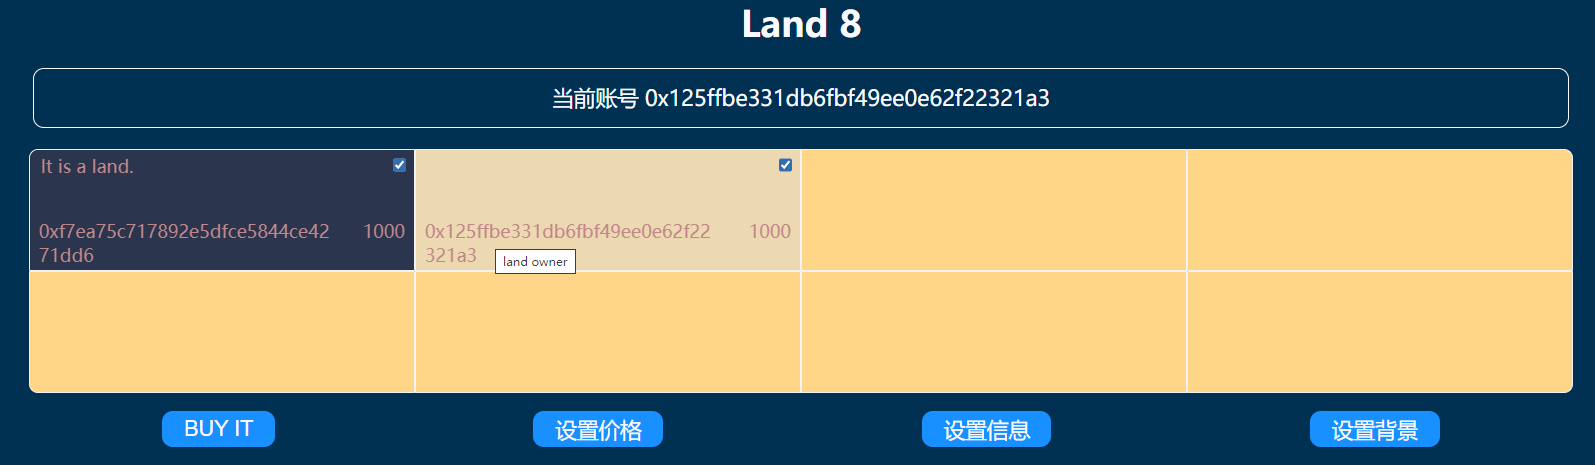
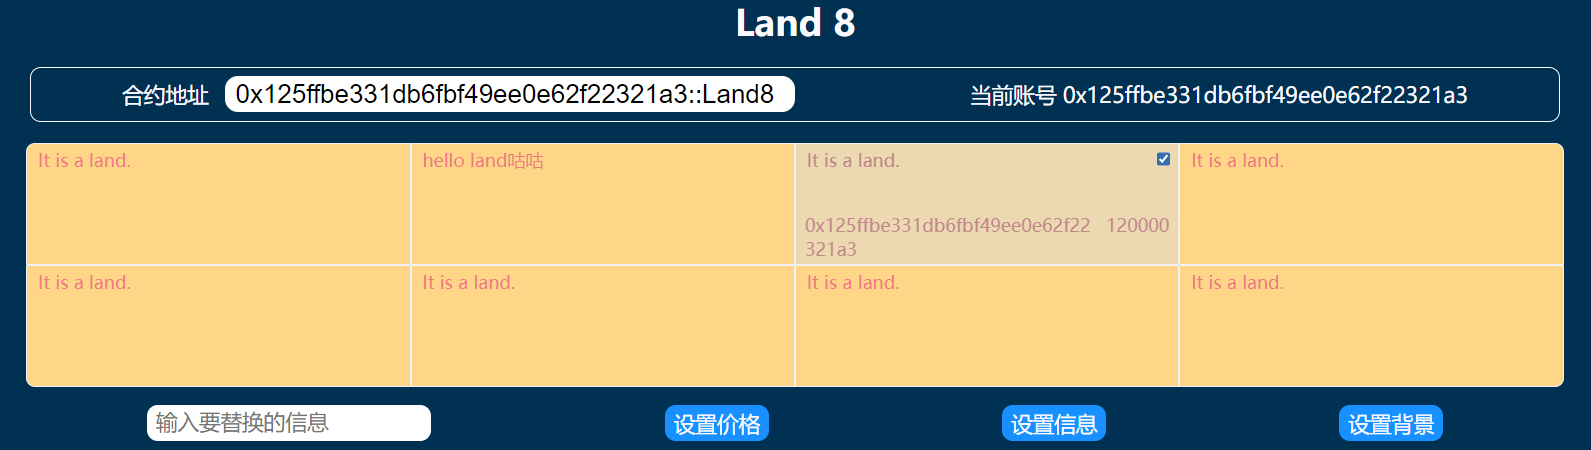
fix: webui.png

diff --git a/Todo.md b/Todo.md
@@ -1,28 +1,30 @@
 ### Todo
 
-- move 合约编写
+- set message
+- set color
+- set price
+- land trade
 - move 编译上传
-- 合约返回任意自定义信息（struct
 
-前端部分
+其他
 
-- 取消多项选择（保留，只提醒
-- 显示当前账户拥有的 land
-
-编译测试
-
-- token mint limit account
 - Coin public(script)
   - BACKWARD_INCOMPATIBLE_MODULE_UPDATE
 - Ldttest
   - INVALID_MAIN_FUNCTION_SIGNATURE
   - (acount: &siginer)
+- 合约返回任意自定义信息（struct
 - 合约下线？
 - Starmask 合约编译？
 
 ### Done
 
+- Land 任意参数修改
+- 取消多项选择（保留，只提醒
+- Land.message 修改
 - 获取 land 初始化信息
+- 当前账户拥有的 land
+- token mint limit account
 - 合约地址填写
 - 显示当前前端对应 链(dev)
 - struct 类型选择

diff --git a/Readme.md b/Readme.md
@@ -4,7 +4,7 @@ a little land trade Dapp game.
 
 一个土地交易小游戏，starcoin 智能合约测试应用。
 
-![](https://raw.githubusercontent.com/hitop/land8/main/webui.png.png)
+![](https://raw.githubusercontent.com/hitop/land8/main/webui.png)
 
 ## Development/安装
 
